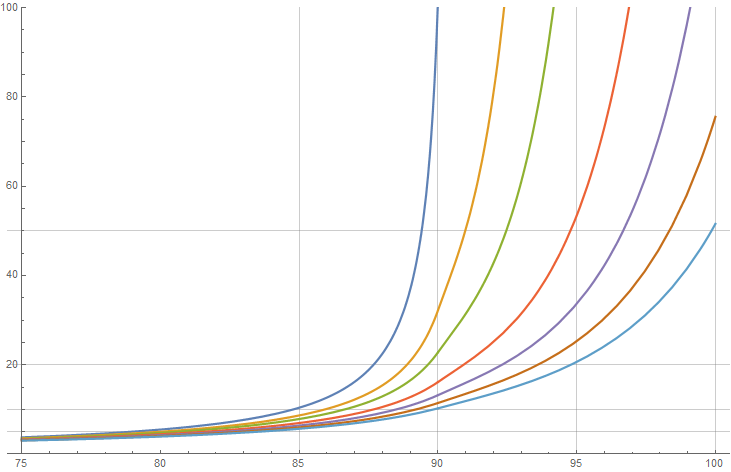
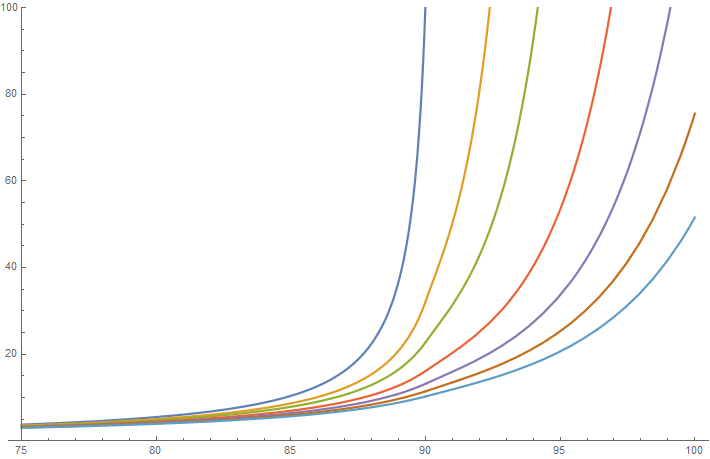
Images without guides

diff --git a/_source_/content/post/analytic_media.md b/_source_/content/post/analytic_media.md
@@ -36,7 +36,7 @@ Given the value of optical depth, it's easy to compute transmittance using the [
 
 $$ \tag{5} \bm{T}(\bm{x}, \bm{y}) = e^{-\bm{\tau}(\bm{x}, \bm{y})}, $$
 
-While optical depth can take any non-negative value, transmittance is restricted to the unit interval \\([0, 1]\\). Opacity is, then,
+While optical depth can take any non-negative value, transmittance is restricted to the unit interval \\([0, 1]\\). Volume opacity is, then,
 
 $$ \tag{6} \bm{O}(\bm{x}, \bm{y}) = 1 - \bm{T}(\bm{x}, \bm{y}). $$
 
@@ -464,7 +464,15 @@ If desired, it is possible to reduce divergence by utilizing `ChapmanUpperApprox
 
 Around 10 pages earlier, we were quite interested in evaluating the extinction-transmittance integral (Equations 10, 18, 22, 29). What about our spherical exponential distributions? Is the value of the integral still identical to opacity?
 
-Unsurprisingly, trying to evaluate the integral analytically is an unsurmountable task. However, that shouldn't stop us from finding out the answer. We can still evaluate the integral numerically, and since we know the likely outcome, we can simply plot and compare the two.
+Unsurprisingly, trying to evaluate the integral analytically is an unsurmountable task. However, that shouldn't stop us from finding the answer. We can still evaluate the integral numerically, and since we know the likely outcome, we can simply plot and compare the two results.
+
+Experimentally, we are able to verify that, indeed, the rule holds true:
+
+$$ \tag{48} \bm{I\_{es}}(\bm{x}, \bm{v}, t) = \bm{\alpha} \bm{O}(\bm{x}, \bm{x} + t \bm{v}). $$
+
+Plot:
+
+{{< figure src="/img/ext_transm_int.png" caption="*Plot of the extinction-transmittance integral for \\(\bm{\sigma_t} = 0.01, r = 6450, R = 6400,\\) and varying \\(H\\).*">}}
 
 ---
 
